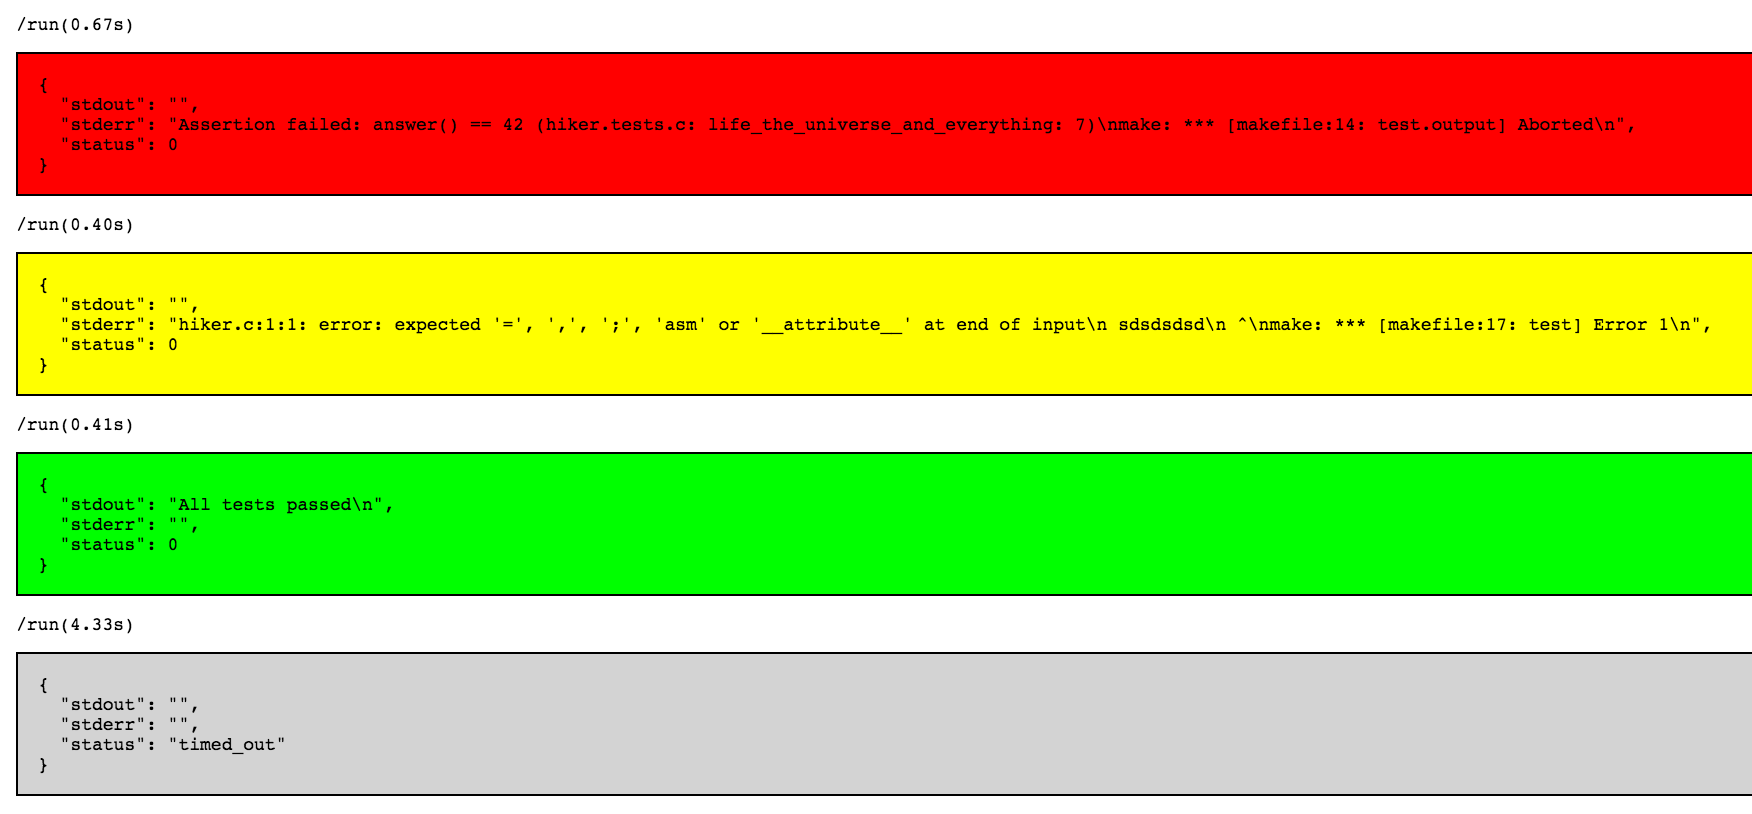
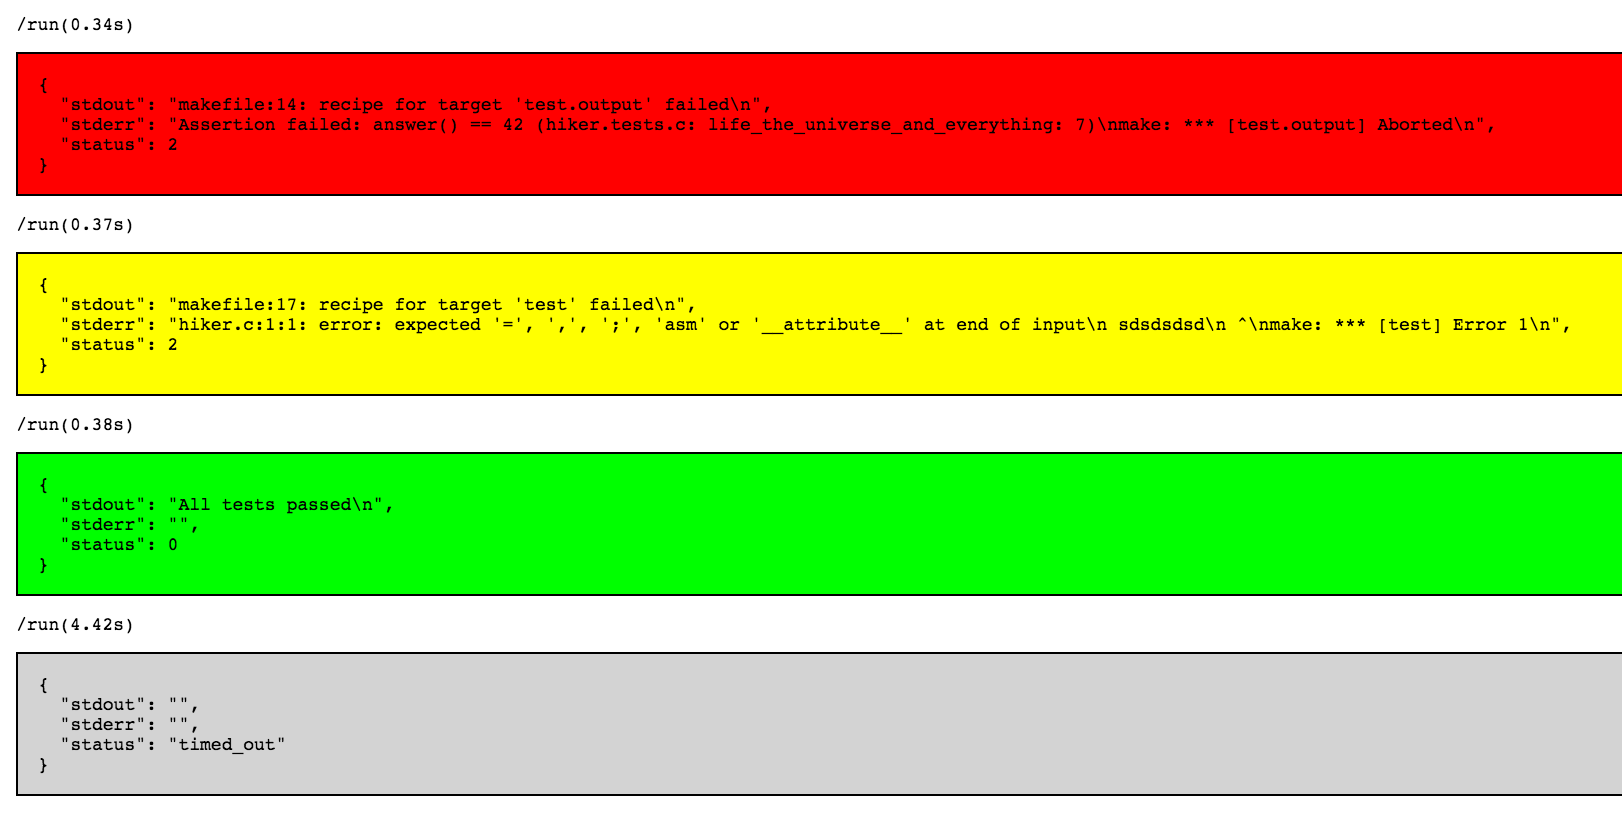
runner.run() now return integer exit-status; out-of-band returns will be strings

diff --git a/client/test/src/run_test.rb b/client/test/src/run_test.rb
@@ -9,7 +9,7 @@ class RunTest < ClientTestBase
   # - - - - - - - - - - - - - - - - - - - - - - - - - - - - - - -
 
   test '42D',
-  'run with bad arguments sets is non-zero integer error' do
+  'run with bad arguments sets non-zero integer error' do
     args = []
     args << image_name
     args << (kata_id = ':') #bad
@@ -26,8 +26,9 @@ class RunTest < ClientTestBase
   test '348',
   'red-traffic-light' do
     runner_run(files)
-    assert_success
+    assert_stdout "makefile:14: recipe for target 'test.output' failed\n"
     assert stderr.start_with?('Assertion failed: answer() == 42'), json.to_s
+    assert_status 2
   end
 
   # - - - - - - - - - - - - - - - - - - - - - - - - - - - - - - -
@@ -36,9 +37,9 @@ class RunTest < ClientTestBase
   'green-traffic-light' do
     file_sub('hiker.c', '6 * 9', '6 * 7')
     runner_run(files)
-    assert_success
     assert_stdout "All tests passed\n"
     assert_stderr ''
+    assert_status 0
   end
 
   # - - - - - - - - - - - - - - - - - - - - - - - - - - - - - - -
@@ -47,12 +48,13 @@ class RunTest < ClientTestBase
   'amber-traffic-light' do
     file_sub('hiker.c', '6 * 9', '6 * 9sss')
     runner_run(files)
-    assert_success
     lines = [
       "invalid suffix \"sss\" on integer constant",
       'return 6 * 9sss'
     ]
     lines.each { |line| assert stderr.include?(line), json.to_s }
+    assert_stdout "makefile:17: recipe for target 'test' failed\n"
+    assert_status 2
   end
 
   # - - - - - - - - - - - - - - - - - - - - - - - - - - - - - - -
@@ -61,9 +63,9 @@ class RunTest < ClientTestBase
   'timed-out-traffic-light' do
     file_sub('hiker.c', 'return', "for(;;);\nreturn")
     runner_run(files, 3)
-    assert_timed_out
     assert_stdout ''
     assert_stderr ''
+    assert_timed_out
   end
 
   # - - - - - - - - - - - - - - - - - - - - - - - - - - - - - - -
@@ -79,9 +81,9 @@ class RunTest < ClientTestBase
       'head -n 1'
     ].join('|')
     runner_run({ 'cyber-dojo.sh' => "seq 2 | xargs -I{} sh -c '#{command}'" })
-    assert_success
     assert stdout.end_with? 'output truncated by cyber-dojo server', json.to_s
     assert_stderr ''
+    assert_status 0
   end
 
 end

diff --git a/server/test/src/docker_runner_language_test.rb b/server/test/src/docker_runner_language_test.rb
@@ -10,32 +10,40 @@ class DockerRunnerLanguageTest < RunnerTestBase
 
   test '182',
   '[C#,NUnit] runs (it sets HOME to location of sandbox in cyber-dojo.sh)' do
-    stdout,_ = assert_run_succeeds_no_stderr(files('csharp_nunit'))
+    stdout,stderr,status = runner_run(files('csharp_nunit'))
     assert stdout.include?('Tests run: 1, Errors: 0, Failures: 1, Inconclusive: 0'), stdout
+    assert_equal '', stderr
+    assert_equal 1, status
   end
 
   # - - - - - - - - - - - - - - - - - - - - - - - - - -
 
   test 'C87',
   '[C#,Moq] runs (it sets HOME to location of sandbox in cyber-dojo.sh)' do
-    stdout,_ = assert_run_succeeds_no_stderr(files('csharp_moq'))
+    stdout,stderr,status = runner_run(files('csharp_moq'))
     assert stdout.include?('Tests run: 1, Errors: 0, Failures: 1, Inconclusive: 0'), stdout
+    assert_equal '', stderr
+    assert_equal 1, status
   end
 
   # - - - - - - - - - - - - - - - - - - - - - - - - - -
 
   test '76D',
   '[gcc,assert] runs' do
-    _,stderr = assert_run_succeeds(files('gcc_assert'))
+    stdout,stderr,status = runner_run(files('gcc_assert'))
+    assert_equal "makefile:14: recipe for target 'test.output' failed\n", stdout
     assert stderr.include?('Assertion failed: answer() == 42'), stderr
+    assert_equal 2, status
   end
 
   # - - - - - - - - - - - - - - - - - - - - - - - - - -
 
   test '358',
   '[Java,Cucumber] runs' do
-    stdout,_ = assert_run_succeeds_no_stderr(files('java_cucumber'))
+    stdout,stderr,status = runner_run(files('java_cucumber'))
     assert stdout.include?('1 Scenarios (1 failed)'), stdout
+    assert_equal '', stderr
+    assert_equal 1, status
   end
 
 end

diff --git a/server/src/docker_runner.rb b/server/src/docker_runner.rb
@@ -134,9 +134,10 @@ class DockerRunner
     begin
       Timeout::timeout(max_seconds) do
         Process.waitpid(pid)
+        status = $?.exitstatus
         w_stdout.close
         w_stderr.close
-        [r_stdout.read, r_stderr.read, success]
+        [r_stdout.read, r_stderr.read, status]
       end
     rescue Timeout::Error
       Process.kill(-9, pid)

diff --git a/client/test/src/client_test_base.rb b/client/test/src/client_test_base.rb
@@ -78,5 +78,6 @@ class ClientTestBase < HexMiniTest
 
   def assert_stdout(expected); assert_equal expected, stdout, json.to_s; end
   def assert_stderr(expected); assert_equal expected, stderr, json.to_s; end
+  def assert_status(expected); assert_equal expected, status, json.to_s; end
 
 end

diff --git a/README.md b/README.md
@@ -77,7 +77,7 @@ Tells the runner-service the given avatar has left the given kata.
   * changed_files, eg { 'fizz_buzz.h' => '#include', ... }
   * max_seconds, eg '10'
 - returns
-  * { "status":0,   "stdout":..., "stderr":... } -> completed
+  * { "status":integer,   "stdout":..., "stderr":... } -> completed
   * { "status":"timed_out", "stdout":"", "stderr":"" } -> did not complete in max_seconds
 
 - if something unexpected goes wrong all methods return
